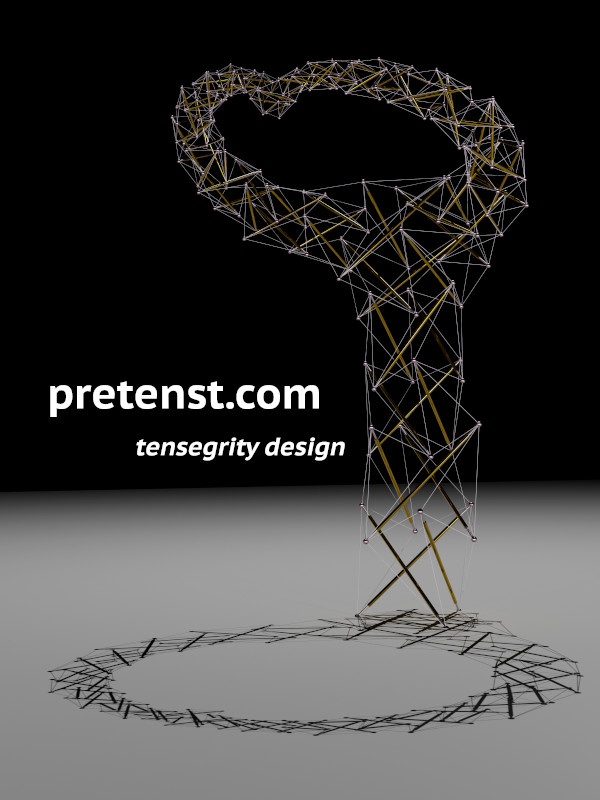
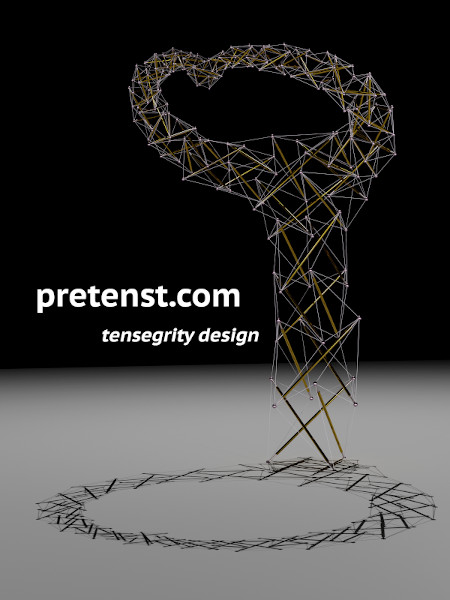
better first image, and contact info

diff --git a/index.md b/index.md
@@ -6,7 +6,7 @@
 
 Pretenst software is tool for designing four-dimensional physical structures made from elements of pure compression (bars) and tension (cables) and exploring how they behave over time and under stress.
 
-<div class="glider-contain" style="text-align: center;">
+<div class="glider-contain" style="text-align: center; margin-bottom: 15px;">
   <div class="glider">
     <div><a href="images/ray/a.jpg" target="_BLANK"><img src="images/ray/a_.jpg"></a></div>
     <div><a href="images/ray/b.png" target="_BLANK"><img src="images/ray/b_.png"></a></div>
@@ -24,6 +24,10 @@ Pretenst software is tool for designing four-dimensional physical structures mad
 ## The Essence of Physical Structure
 
 Pretenst structure, otherwise known as **tensegrity**, is minimalistic. It is structure distilled down to the basics of push and pull. It's because of this that these structures appear to be lighter than air, defying gravity, and that gives them their elegant beauty. The defining feature of tensegrity is that the pushing elements or bars are **floating**, separated from each other and only held together by a **network of tension**. The shape maintains its integrity because of the tension, and the compression pushing outwards is only localized.
+
+## Contact
+
+You can reach us by email at [**pretenst@gmail.com**](mailto:pretenst@gmail.com?subject=Pretenst%20Tensegrity%20Design) if you want to know more.
 
 ## Documentation
 
